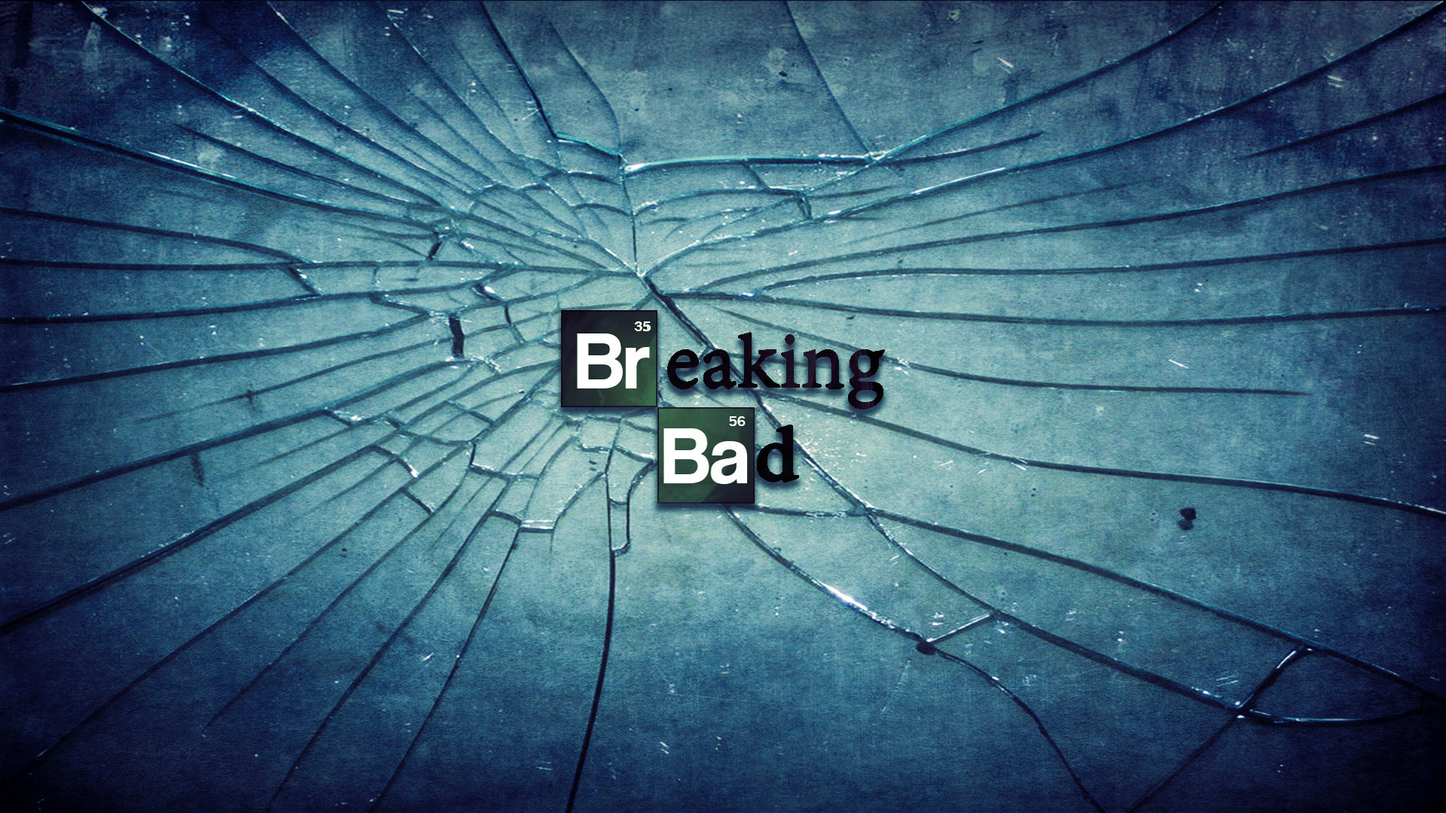
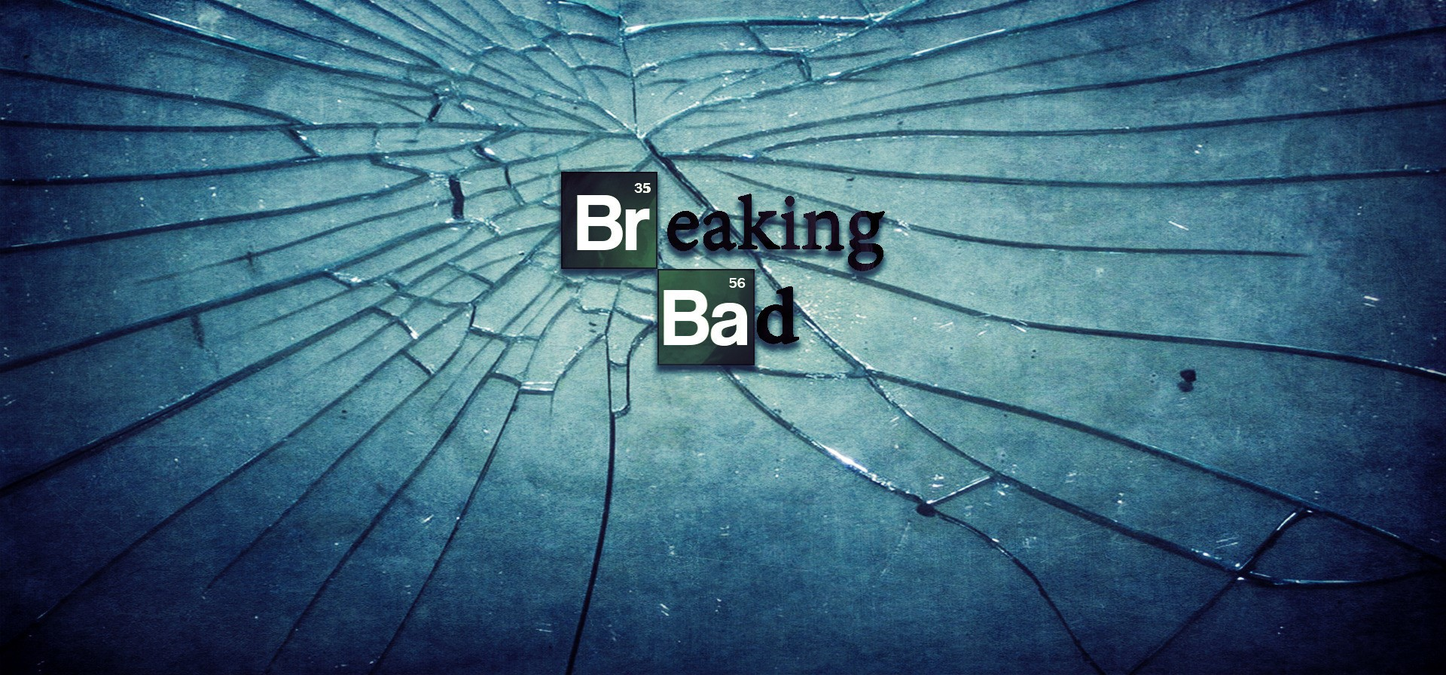
Background fixed with @media

diff --git a/gameIndex.html b/gameIndex.html
@@ -1,0 +1,85 @@
+<!DOCTYPE html>
+<html lang="en">
+
+<head>
+    <meta charset="UTF-8">
+    <meta name="viewport" content="width=device-width, initial-scale=1.0">
+    <meta http-equiv="X-UA-Compatible" content="ie=edge">
+    <title>Word Guess Game</title>
+    <link rel="stylesheet" href="https://stackpath.bootstrapcdn.com/bootstrap/4.3.1/css/bootstrap.min.css"
+        integrity="sha384-ggOyR0iXCbMQv3Xipma34MD+dH/1fQ784/j6cY/iJTQUOhcWr7x9JvoRxT2MZw1T" crossorigin="anonymous">
+    <link rel="stylesheet" href="./assets/css/style.css">
+    <link href="https://fonts.googleapis.com/css?family=VT323" rel="stylesheet">
+
+
+</head>
+
+
+<body class="page2">
+
+    <ul class="nav justify-content-center">
+        <li class="nav-item">
+            <a href="./index.html"><img src="https://fontmeme.com/permalink/190220/0a7740516cdc32522abb789d479f2790.png"
+                    alt="super-mario-font" border="0"></a>
+        </li>
+
+    </ul>
+
+    <div class="container">
+
+        <div class="jumbotron">
+
+            <div class="container">
+                <p><strong>Press any key to get started!</strong></p>
+            </div>
+        </div>
+
+        <div class="row">
+            <div class="col-lg-12">
+                <div class="panel panel-default">
+                    <div class="panel-heading">
+                        <p class="panel-title"><strong>Let's Play Guess This Word </strong></p>
+                    </div>
+
+
+                    <div class="panel-body">
+                        <p id="word-blanks">_ _ _ _ _ _ _ _ _ </p>
+                    </div>
+                </div>
+
+
+                <div class="panel panel-default">
+                    <div class="panel-body">
+                        <strong>Wrong Guesses: </strong> <span id="wrong-guesses"></span>
+                    </div>
+                </div>
+
+
+                <div class="panel panel-default">
+                    <div class="panel-body">
+                        <strong>Guesses Left: </strong> <span id="guesses-left">9</span>
+                    </div>
+                </div>
+
+
+                <div class="panel panel-default">
+                    <div class="panel-body">
+                        <strong>Wins: </strong> <span id="win-counter">0</span>
+                    </div>
+                </div>
+
+
+                <div class="panel panel-default">
+                    <div class="panel-body">
+                        <strong>Losses: </strong> <span id="loss-counter">0</span>
+                    </div>
+                </div>
+            </div>
+        </div>
+    </div>
+
+
+    <script type="text/javascript" src="./assets/javascript/#"></script>
+</body>
+
+</html>

diff --git a/index.html b/index.html
@@ -1,10 +1,47 @@
 <!DOCTYPE html>
 <html lang="en">
+
 <head>
     <meta charset="UTF-8">
     <title>Crystals Collector Game</title>
+    <link rel="stylesheet" href="https://stackpath.bootstrapcdn.com/bootstrap/4.3.1/css/bootstrap.min.css">
+    <link rel="stylesheet" href="./assets/css/style.css">
 </head>
-<body>
-    
+
+<body class="page1">
+
+
+    <div class="container">
+
+        <div class="jumbotron">
+            <div class="container">
+                <a href="#"><img src="https://fontmeme.com/permalink/190227/34394247a8f74a7e861269e61006aab2.png"
+                        alt="heart-breaking-bad-font" border="0"></a>
+                
+                <a href="#"><img src="https://fontmeme.com/permalink/190227/9d3bed19f94b1148a21279c823fd49eb.png"
+                        alt="heart-breaking-bad-font" border="0"></a>
+                
+                <div>
+                    <a href="#"><img src="https://fontmeme.com/permalink/190227/d7c581e9cbac844e36ba2ad9ed326dfe.png"
+                            alt="heart-breaking-bad-font" border="0"></a>
+                </div>
+                <!--  REMEMBER TO ADD PAGE FOR THE GAME TO START-->
+                <div>
+                    <br>
+                    <a href="gameIndex.html" class="btn btn-success" role="button" aria-pressed="true">
+                        <h1>Let's Cook!</h1>
+                    </a>
+                </div>
+
+            </div>
+
+        </div>
+
+    </div>
+
+    </div>
+
+
 </body>
+
 </html>

diff --git a/assets/css/style.css b/assets/css/style.css
@@ -1,0 +1,50 @@
+body{
+    
+    background-position: top center;
+    background-repeat: no-repeat;
+    background-color:black;
+    background-size: auto;
+}
+
+.container{
+    text-align: center;
+    font-family: 'Times New Roman', Times, serif;
+    font-size: 35px;
+}
+
+.btn-success{
+    background-color:green;
+    border-color: black;
+}
+
+.jumbotron{
+    background-color: transparent;
+    justify-content: center;
+    margin-bottom: 0px;
+    padding-top: 40px;
+    padding-bottom: 40px;
+}
+
+.page1{
+    background-image: url(../images/Orange1.jpg);
+   
+
+}
+
+.page2{
+    background-image: url(../images/game2.jpg);
+
+}
+
+
+
+@media(max-width: 1300px){
+
+
+
+body{
+    background-size: 1300px;
+}
+
+
+}
